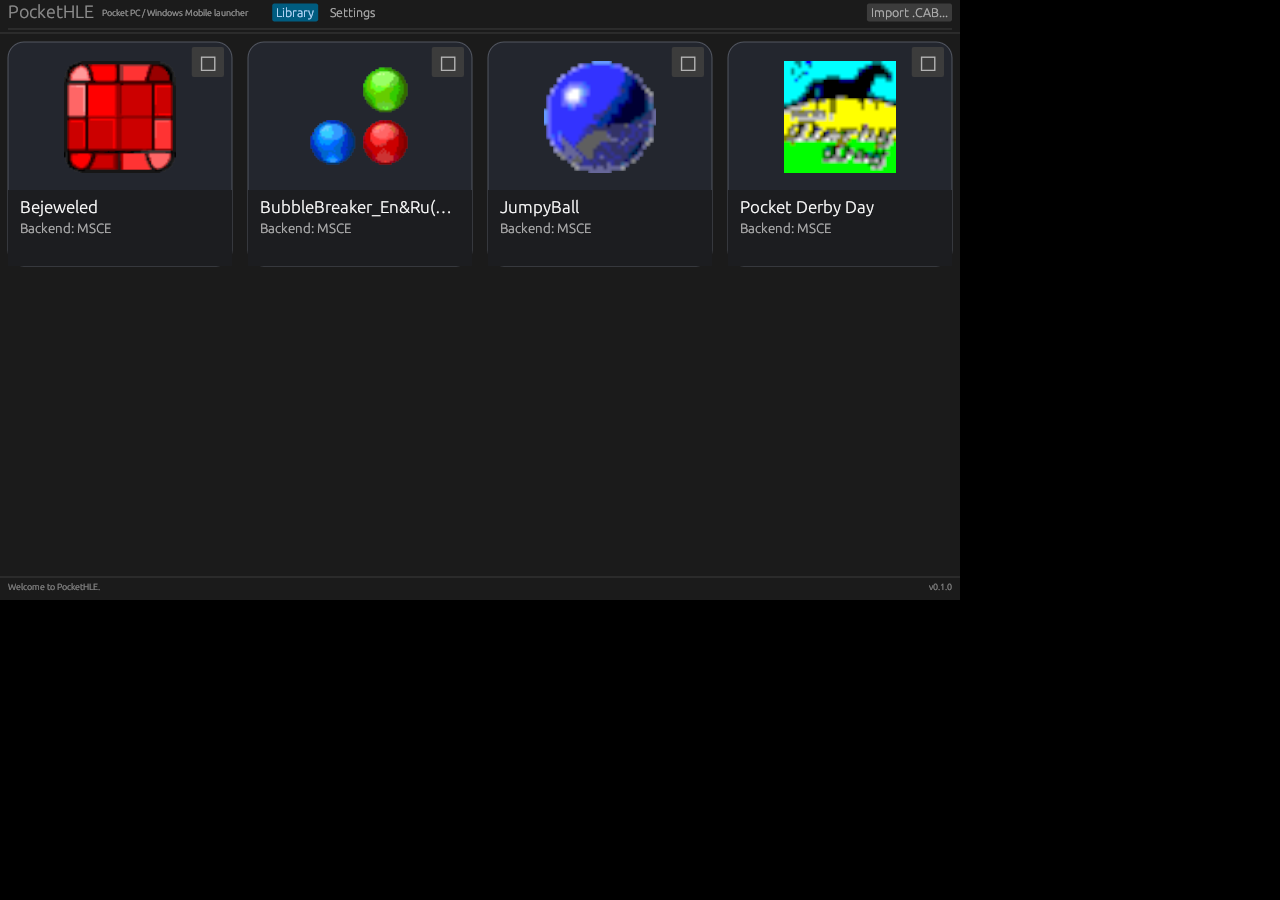
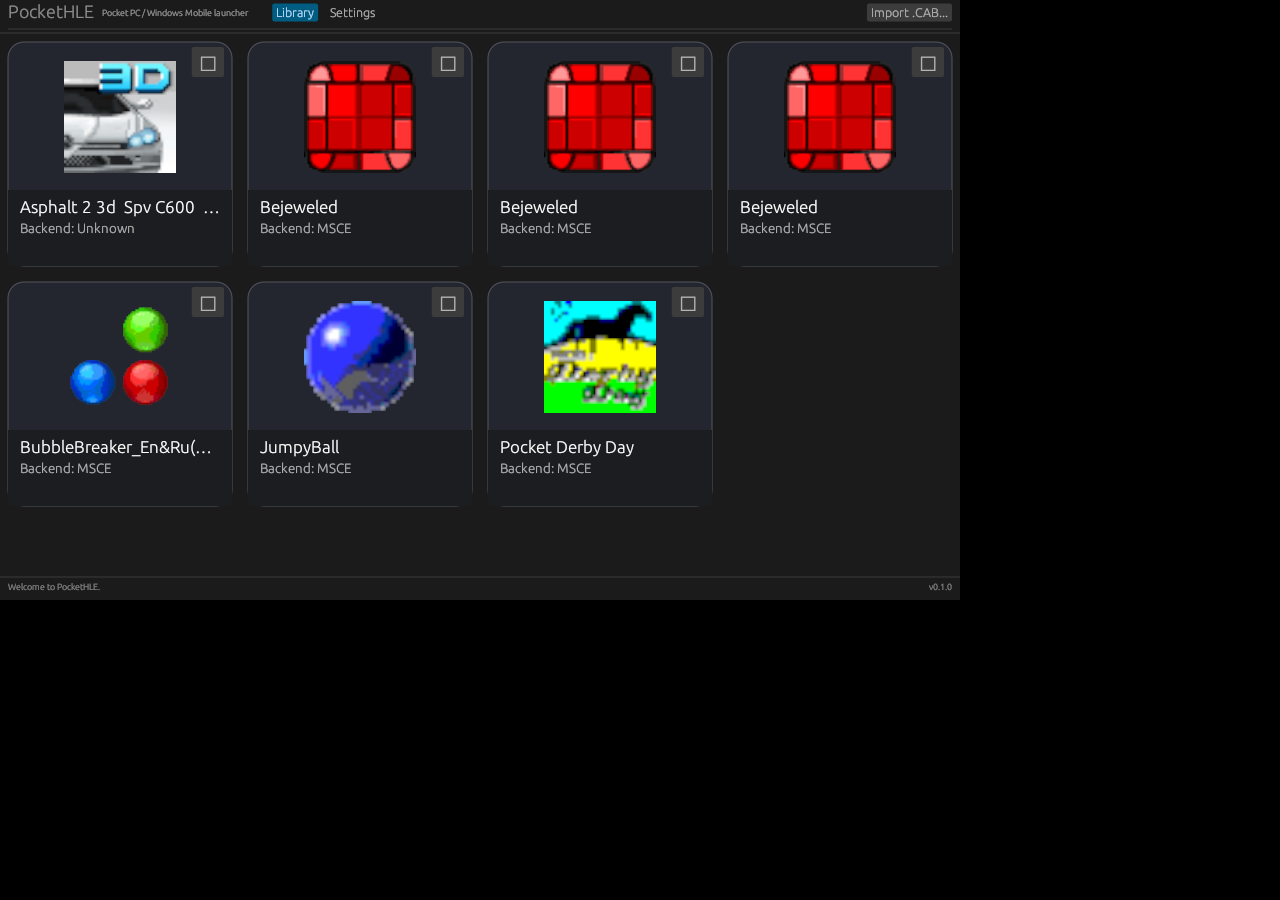
fix(desktop): lock square grid cell dimensions

diff --git a/frontends/pocket-desktop/src/app.rs b/frontends/pocket-desktop/src/app.rs
@@ -336,6 +336,9 @@ impl PocketLauncher {
                 .max(1.0) as usize;
             egui::Grid::new("library_grid")
                 .num_columns(columns)
+                .min_col_width(card_size.x)
+                .max_col_width(card_size.x)
+                .min_row_height(card_size.y)
                 .spacing(Vec2::splat(gap))
                 .show(ui, |ui| {
                     for (index, game) in games.iter().enumerate() {
